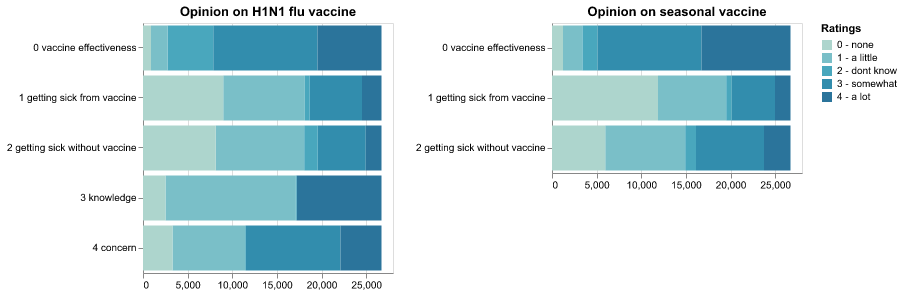
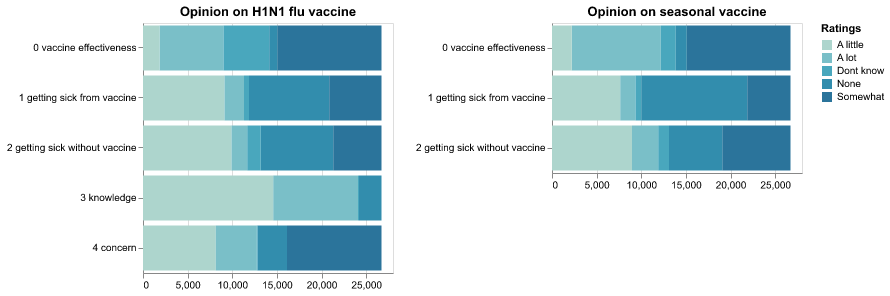
Sentiment data analysis

diff --git a/01 Driven Data - Flu Shot/src/flu_shot_data.py b/01 Driven Data - Flu Shot/src/flu_shot_data.py
@@ -47,18 +47,12 @@ class FluShotData:
 
         columns_explore = df_train.columns.tolist()
         columns_explore.remove("respondent_id")
-        print(columns_explore)
 
+        print(columns_explore)
         print(df_train.columns)
 
         print(f'Dataset has {df_train.shape[0]} entries.')
         print(f'Dataset has columns : {df_train.columns.tolist()}.')
-
-        # Check if empty records
-        # for c in df_train.columns:
-        #     print(c, df_train[c].isna().sum())
-
-        # plot distibution of values 
 
 
         # with pd.option_context('display.max_rows', None, 'display.max_columns', None):
@@ -71,47 +65,54 @@ class FluShotData:
         # Features with int values to be used for modeling.
 
         # Different features might have different ratings / scales
-        # Scale for concern
-        map_concern_desc = {0.0: '0 - none',
-                       1.0: '1 - a little',
-                       2.0: '3 - somewhat',
-                       3.0: '4 - a lot'}
-        map_concern_int = {0.0: 0, 1.0: 1, 2.0: 3, 3.0: 4}
-        # Combine the map for concern with h1n1_concern
-        df_train['h1n1_concern_desc'] = df_train['h1n1_concern'].map(map_concern_desc)
-        df_train['h1n1_concern_int'] = df_train['h1n1_concern'].map(map_concern_int)
+        # Scale for a concern
+        # General scale for all sentiment features
+        sentiment_map = {
+                "None": -2,
+                "A little": -1,
+                "Don't know": 0,
+                "Somewhat": 1,
+                "A lot": 2,
+            }
 
-        # Scale for knowledge
-        map_knowledge_desc = {0.0: '0 - none',
-                       1.0: '1 - a little',
-                       2.0: '4 - a lot'}
-        map_knowledge_int = {0.0: 0, 1.0: 1, 2.0: 4}
-        # Combine the map for concern with h1n1_concern
-        df_train['h1n1_knowledge_desc'] = df_train['h1n1_knowledge'].map(map_knowledge_desc)
-        df_train['h1n1_knowledge_int'] = df_train['h1n1_knowledge'].map(map_knowledge_int)
+        # Replace missing values by "Neither agree nor disagree"
+        for c in ['opinion_h1n1_vacc_effective', 'opinion_h1n1_risk', 'opinion_h1n1_sick_from_vacc',
+                  'opinion_seas_vacc_effective', 'opinion_seas_risk', 'opinion_seas_sick_from_vacc',
+                  'h1n1_concern', 'h1n1_knowledge']:
+            df_train[f'{c}_sent'] = df_train[f'{c}'].fillna('Neither agree nor disagree')
+
+        # H1N1_concern
+        df_train['h1n1_concern_desc'] = df_train['h1n1_concern'].map({
+                    0.0: 'None',
+                    1.0: 'A little',
+                    2.0: 'Somewhat',
+                    3.0: 'A lot'
+                    }
+                )
+
+        # H1n1_knowledge
+        df_train['h1n1_knowledge_desc'] = df_train['h1n1_knowledge'].map({0.0: 'None',
+                       1.0: 'A little',
+                       2.0: 'A lot'})
 
         # Scale for effective, risk and sick
-        map_effective_desc = {1.0: '0 - none',
-                         2.0: '1 - a little',
-                         3.0: '2 - dont know',
-                         4.0: '3 - somewhat',
-                         5.0: '4 - a lot'}
-        map_effective_int = {1.0: 0, 2.0: 1, 3.0: 2, 4.0: 3, 5.0: 4}
+        map_effective_desc = {1.0: 'None',
+                         2.0: 'A little',
+                         3.0: 'Dont know',
+                         4.0: 'Somewhat',
+                         5.0: 'A lot'}
 
         # Apply the map
         for c in ['opinion_h1n1_vacc_effective', 'opinion_h1n1_risk', 'opinion_h1n1_sick_from_vacc',
                   'opinion_seas_vacc_effective', 'opinion_seas_risk', 'opinion_seas_sick_from_vacc']:
             # Replace numeric values by description
             df_train[f'{c}_desc'] = df_train[c].map(map_effective_desc)
-            df_train[f'{c}_int'] = df_train[c].map(map_effective_int)
 
         # Replace missing values NaN by 'dont know'
         for c in ['opinion_h1n1_vacc_effective', 'opinion_h1n1_risk', 'opinion_h1n1_sick_from_vacc',
                   'opinion_seas_vacc_effective', 'opinion_seas_risk', 'opinion_seas_sick_from_vacc',
                   'h1n1_concern', 'h1n1_knowledge']:
-            df_train[f'{c}_desc'] = df_train[f'{c}_desc'].fillna('2 - dont know')
-            df_train[f'{c}_int'] = df_train[f'{c}_int'].fillna(2)
-            df_train[f'{c}_int'] = df_train[f'{c}_int'].astype(int)
+            df_train[f'{c}_desc'] = df_train[f'{c}_desc'].fillna('Dont know')
 
 
         # 2. Behavioral features Y/N
@@ -133,43 +134,29 @@ class FluShotData:
             else:
                 return 'No response'
 
-        def float_to_int(w):
-            if w == 0.0:
-                return 0
-            elif w == 1.0:
-                return 2
-            else:
-                return 1
 
         # Apply the mapping function for behavioral features and return stats
         for f in features_behavioral:
             df_train[f'{f}_desc'] = df_train[f].apply(float_to_word)
-            df_train[f'{f}_int'] = df_train[f].apply(float_to_int)
             # print output to log file
             # print(100*df_train[f'{f}_int'].value_counts()/df_train.shape[0])
             # print('-'*10)
 
-
+        # -------------------------------------------------------
         # 3. Chronic condition and doctors recommendation
-        # Create a new feature (str) with Y for 1, N for 0 and 'No response' for NaN
-
         features_medical = ['doctor_recc_h1n1', 'doctor_recc_seasonal', 'chronic_med_condition']
-
-        for f in features_medical:
-            df_train[f'{f}_desc'] = df_train[f].apply(float_to_word)
-
         features_health = ['chronic_med_condition', 'child_under_6_months', 'health_worker', 'health_insurance']
 
-        for f in features_health:
+        for f in features_medical + features_health:
             df_train[f'{f}_desc'] = df_train[f].apply(float_to_word)
 
         features_personal =['employment_status', 'rent_or_own', 'marital_status', 'sex',
                             'household_children', 'household_adults']
 
-        for f in features_personal:
-            print(df_train[f].isnull().sum())
-            print(100 * df_train[f].value_counts() / df_train.shape[0])
-            print('-' * 10)
+        # for f in features_personal:
+        #     print(df_train[f].isnull().sum())
+        #     print(100 * df_train[f].value_counts() / df_train.shape[0])
+        #     print('-' * 10)
 
         # -------------------------------------------------------
         # Explore labels as is, without features
@@ -177,6 +164,91 @@ class FluShotData:
         self.explore_labels(df_train[columns])
 
         self.plot_stacked_bar_ratings_behaviour_medical(df_train)
+        self.plot_diverging_stacked_bar(df_train)
+
+    def plot_diverging_stacked_bar(self, df):
+        """
+        Plot diverging stacked bar chart for sentiments towards a set of questions,
+        displayed as percentages with neutral responses straddling the 0% mark.
+        :return: Chart saved as a png file.
+        """
+
+        features_sentiment = ['opinion_h1n1_vacc_effective_desc', 'opinion_h1n1_risk_desc',
+                              'opinion_h1n1_sick_from_vacc_desc',  'opinion_seas_vacc_effective_desc',
+                              'opinion_seas_risk_desc', 'opinion_seas_sick_from_vacc_desc',
+                              'h1n1_concern_desc', 'h1n1_knowledge_desc']
+
+        df1 = df['h1n1_concern_desc'].value_counts().rename_axis('type').reset_index(name='value')
+        df2 = df['h1n1_knowledge_desc'].value_counts().rename_axis('type').reset_index(name='value')
+        df3 = df['opinion_h1n1_vacc_effective_desc'].value_counts().rename_axis('type').reset_index(name='value')
+        df3 = df['opinion_h1n1_vacc_effective_desc'].value_counts().rename_axis('type').reset_index(name='value')
+        df4 = df['opinion_h1n1_risk_desc'].value_counts().rename_axis('type').reset_index(name='value')
+
+        df1['question'] = 'Level of concern about the H1N1 flu'
+        df2['question'] = 'Level of knowledge about H1N1 flu'
+        df3['question'] = "Respondent's opinion about H1N1 vaccine effectiveness"
+
+        df4['question'] = "Respondent's opinion about risk of getting sick with H1N1 flu without vaccine"
+
+        # Dataframe for medical features
+        dfs_sentiment = [df1, df2, df3, df4]
+        source_sentiment = functools.reduce(lambda left, right: pd.concat([left, right]), dfs_sentiment)
+
+        # Add type_code that we can sort by
+        source_sentiment['type_code'] = source_sentiment['type'].map(
+            {
+                "None": -2,
+                "A little": -1,
+                "Dont know": 0,
+                "Somewhat": 1,
+                "A lot": 2,
+            }
+        )
+
+        print(source_sentiment)
+
+        def compute_percentages(
+                group,
+        ):
+            # Set type_code as index and sort
+            group = group.set_index("type_code").sort_index()
+
+            # Compute percentage of value with question group
+            perc = (group["value"] / group["value"].sum()) * 100
+            group["percentage"] = perc
+
+            # Compute percentage end, centered on "Neither agree nor disagree" (type_code 0)
+            # Note that we access the perc series via index which is based on 'type_code'.
+            group["percentage_end"] = perc.cumsum() - (perc[-2] + perc[-1] + perc[0] / 2)
+
+            # Compute percentage start by subtracting percent
+            group["percentage_start"] = group["percentage_end"] - perc
+
+            return group
+
+        source_sentiment  = source_sentiment.groupby("question").apply(compute_percentages).reset_index(drop=True)
+
+        color_scale = alt.Scale(
+            domain=[
+                "None",
+                "A little",
+                "Dont know",
+                "Somewhat",
+                "A lot",
+            ],
+            range=["#c30d24", "#f3a583", "#cccccc", "#94c6da", "#1770ab"],
+        )
+
+        y_axis = alt.Axis(title="", offset=5, ticks=False, minExtent=60, domain=False, labelLimit=380)
+
+        bar_chart = alt.Chart(source_sentiment).mark_bar().encode(
+            x=alt.X("percentage_start:Q").title(''),
+            x2="percentage_end:Q",
+            y=alt.Y("question:N").axis(y_axis),
+            color=alt.Color("type:N").title("Response").scale(color_scale),
+        )
+
+        bar_chart.save('../fig/TEST.png')
 
     def plot_stacked_bar_ratings_behaviour_medical(self, df):
         """
@@ -185,9 +257,6 @@ class FluShotData:
         :param df: train dataframe with all features
         :return: bar chart saved as png file
         """
-
-        # TODO : Diverging Stacked Bar Chart for replies
-        # https://altair-viz.github.io/gallery/diverging_stacked_bar_chart.html
 
         # Ratings ------------------------
         df1 = df['h1n1_concern_desc'].value_counts().rename_axis('rating').reset_index(name='counts')
@@ -329,6 +398,9 @@ class FluShotData:
         chart.save(FILE_BARCHART_FEATURES_PERSONAL)
 
         # Population pyramid --------------------
+
+        # Diverging stacked bar chart for sentiments towards a set of questions
+
 
 
         # Chart for health features -------------
